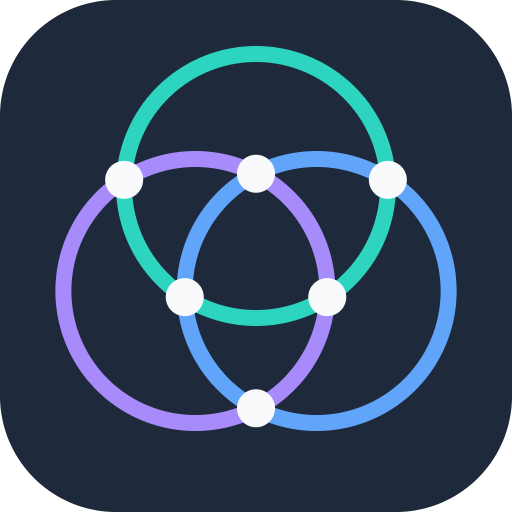
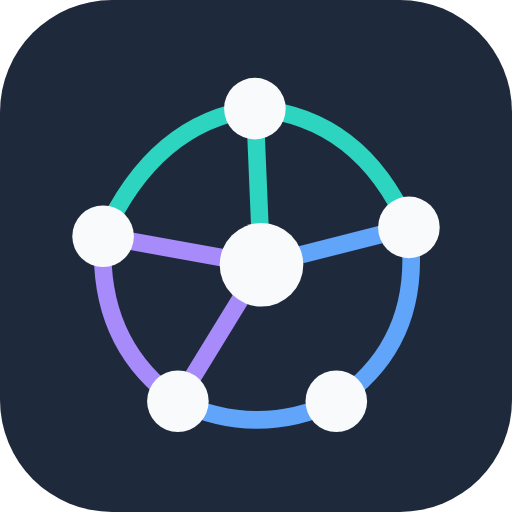
feat(brand): 노드·간선 그래프 모양 아이콘으로 교체
- resources/icon.svg를 원본으로 추가하고 512x512 투명 모서리 PNG로 렌더링
- 아이콘 원본은 VSIX에서 제외
- DEVELOPMENT에 재생성 방법 기록

diff --git a/docs/DEVELOPMENT.md b/docs/DEVELOPMENT.md
@@ -459,6 +459,16 @@ npm run build -- --production && npm run package && npm run package:verify
 code --install-extension skein-*.vsix  # check install in a clean VS Code instance
 ```
 
+### Extension Icon
+
+`resources/icon.png` (512x512, transparent corners) is rendered from `resources/icon.svg`; the Marketplace needs the PNG. After editing the SVG, regenerate it with headless Chromium (a snap Chromium can only write under the home directory):
+
+```bash
+chromium --headless --no-sandbox --disable-gpu --hide-scrollbars \
+  --default-background-color=00000000 --window-size=512,512 \
+  --screenshot="$PWD/resources/icon.png" resources/icon.svg
+```
+
 ### Cross-Platform Development
 
 All code and tests must work on Windows, Linux, and macOS. Build paths with `node:path`, normalize with `normalizePath()` before path keys enter Sets or Maps, prefer `path.isAbsolute()` over a leading `/` check, and normalize line endings when comparing file content. The binding rules are in [`.agents/rules/testing.md`](../.agents/rules/testing.md).
